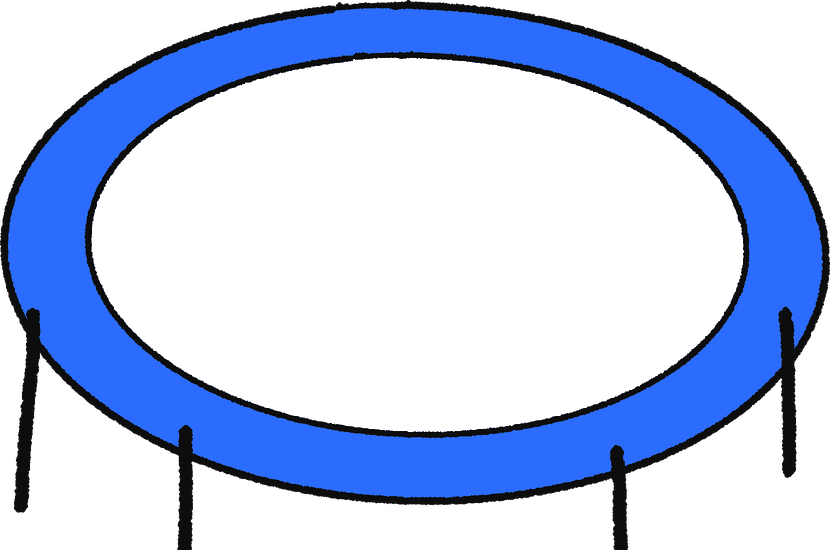
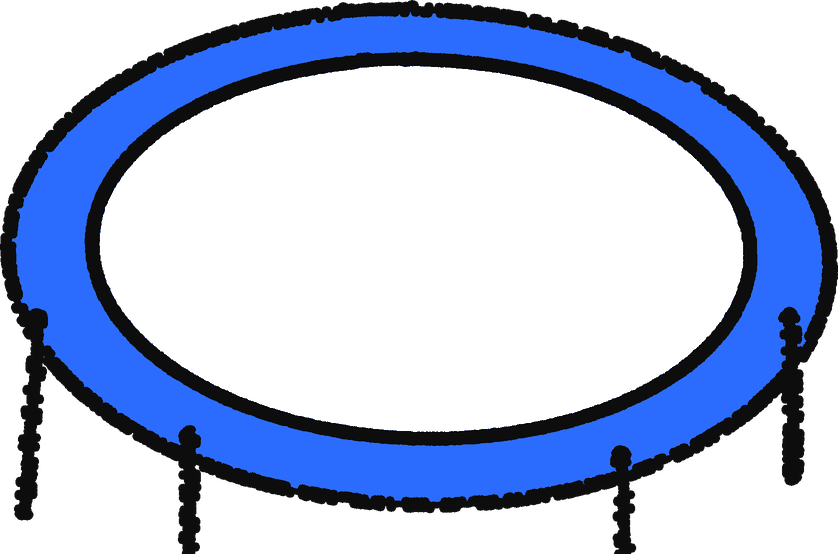
기본 화면 찌글거림 완화, 그린 포즈 춤 확대, 광장 버튼 이동
- 기본 화면 몸 찌글거림 축소, 얼굴과 이목구비도 같은 정도로 흔들림
- 광장 소품에 찌글거림 프레임 적용, 트램펄린 선 강화
- 스페셜 후반 8박과 클럽 테마에 그린 포즈 춤 5종 추가
- 광장 입장 버튼을 주둥이 털기 아래로 옮기고 같은 크기로 변경
- 입력칸 위 안내 문구 삭제

Claude-Session: https://claude.ai/code/session_01Bn9iVCnsYpuAwZPUj6p4ae

Changed region(s): [[0.0, 0.0, 1.0, 1.0]]

diff --git a/site/plaza.js b/site/plaza.js
@@ -46,12 +46,14 @@ const Plaza=(()=>{let ws=null,on=false,me=0,room=0,WORLD=1400,MIC={x:300,y:1150,
   if(e<1.35)return{rr:-d*(1.57+.07*f),ry:.22,...legs,...arms,al:1.5+.9*f,ar:1.5-.9*f,hs:1};
   if(e<1.7){const k=(e-1.35)/.35,tw=Math.sin(now/30)*.25*(1-k);return{rr:-d*1.57,ry:.24,lr:(d>0?hi:.1)*(1-k)+tw,ll:(d>0?.1:hi)*(1-k)-tw,al:.15,ar:.15}}
   const k=(e-1.7)/.2;return{rr:-d*1.57*(1-k),ry:.24*(1-k),al:.15+.3*k,ar:.15+.3*k}}
- function item(g,n,x,y,sc,rot){const m=SPR[n];if(!m||!m.width)return;const w=m.width*sc,h=m.height*sc;g.save();g.translate(x,y);if(rot)g.rotate(rot);g.drawImage(m,-w/2,-h/2,w,h);g.restore()}
+ function boil(n){const m=SPR[n];if(!m.width)return;const c0=document.createElement('canvas');c0.width=m.width;c0.height=m.height;const x0=c0.getContext('2d');x0.drawImage(m,0,0);const src=x0.getImageData(0,0,m.width,m.height),W=m.width,H0=m.height;SPR[n+'#']=[0,1,2].map(f=>{const c=document.createElement('canvas');c.width=W;c.height=H0;const x=c.getContext('2d'),o=x.createImageData(W,H0),A0=3;for(let v=0;v<H0;v++)for(let u=0;u<W;u++){const sx=Math.round(u+A0*Math.sin(v/19+f*2.1)+.9*Math.sin(v/7+f*4)),sy=Math.round(v+A0*Math.sin(u/23+f*3.3)+.9*Math.sin(u/8+f*5));if(sx<0||sy<0||sx>=W||sy>=H0)continue;const i=(sy*W+sx)*4,j=(v*W+u)*4;o.data[j]=src.data[i];o.data[j+1]=src.data[i+1];o.data[j+2]=src.data[i+2];o.data[j+3]=src.data[i+3]}x.putImageData(o,0,0);return c})}
+ function frameOf(n){const f=SPR[n+'#'];return f?f[Math.floor(performance.now()/110)%3]:SPR[n]}
+ function item(g,n,x,y,sc,rot){const m=frameOf(n);if(!m||!m.width)return;const w=m.width*sc,h=m.height*sc;g.save();g.translate(x,y);if(rot)g.rotate(rot);g.drawImage(m,-w/2,-h/2,w,h);g.restore()}
  function jumpPose(p){const u=Math.max(-1,Math.min(1,p.vz/700)),t=1-Math.abs(u),fall=u<0?-u:0;return{ll:.1+.5*t+.14*fall,lr:.1+.5*t+.14*fall,kl:-.15-1.25*t-.2*fall,kr:-.15-1.25*t-.2*fall,al:2.75-1.05*t-.5*fall,ar:2.75-1.05*t-.5*fall,bl:.2+.5*t,br:.2+.5*t}}
  // 어깨에서 위팔을 내리고 팔꿈치를 접어 손이 어깨 높이에 오게 한다. 휘두를 때는 팔을 펴며 앞으로 내린다.
  function armPose(pose,d,k,now){const sh=k?.45+1.5*k:.62+.03*Math.sin(now/260),bend=k?.15+1.25*k:2.15;if(d>0){pose.ar=sh;pose.br=bend}else{pose.al=sh;pose.bl=bend}}
  function handOf(P,d){const key=d>0?'aR':'aL',a=d>0?P.ar:P.al,b=d>0?P.br:P.bl,st=d>0?P.sr:P.sl,sg=d>0?-1:1,l=LIMBS[key],K=20,seg=l.L*st/K;let x=l.root[0],y=l.root[1];for(let i=0;i<K;i++){const th=l.th+sg*(a+b*i/K);x+=Math.cos(th)*seg;y+=Math.sin(th)*seg}return[x-CX,y-CY]}
- function carryBat(g,P,x,y,sc,k,d,kind){const[hx,hy]=handOf(P,d),m=SPR[kind==='ham'?'hammer':'bat'];if(!m||!m.width)return;const z=sc*2.1,w=m.width*z,h=m.height*z,r=P.rr||0,c=Math.cos(r),s0=Math.sin(r),u=hx*sc*P.sx,v=hy*sc*P.sy,ox=x+P.rx*H*sc+(u*c-v*s0),oy=y+P.ry*H*sc+(u*s0+v*c);g.save();g.translate(ox,oy);g.rotate(d*(k?1.75-2.3*k:.28));g.drawImage(m,-w/2,-h*.92,w,h);g.restore()}
+ function carryBat(g,P,x,y,sc,k,d,kind){const[hx,hy]=handOf(P,d),m=frameOf(kind==='ham'?'hammer':'bat');if(!m||!m.width)return;const z=sc*2.1,w=m.width*z,h=m.height*z,r=P.rr||0,c=Math.cos(r),s0=Math.sin(r),u=hx*sc*P.sx,v=hy*sc*P.sy,ox=x+P.rx*H*sc+(u*c-v*s0),oy=y+P.ry*H*sc+(u*s0+v*c);g.save();g.translate(ox,oy);g.rotate(d*(k?1.75-2.3*k:.28));g.drawImage(m,-w/2,-h*.92,w,h);g.restore()}
  function playShout(m,own){const show=own?m.text:(beep||m.mic?m.masked:m.text),raw=show.replace(/★+/g,'삐');bubbles.set(m.no,{t:show,live:true,life:3,mic:m.mic});
   const b=bubbles.get(m.no);if(!m.mic&&!allHear&&distTo(m.no)>1150){b.live=false;return}
   // 말풍선을 먼저 그린 뒤 합성한다. 합성이 화면을 잠깐 멈추므로 순서가 체감을 좌우한다.
@@ -84,7 +86,7 @@ const Plaza=(()=>{let ws=null,on=false,me=0,room=0,WORLD=1400,MIC={x:300,y:1150,
   mic(g,t);g.restore()}
  function micZone(g){const{x,y,r}=MIC;Rough.poly(g,Rough.ell(x,y,r,r*.56,22),{fill:'rgba(255,43,179,.28)',stroke:null,amp:2,seed:1})}
  function mic(g,t){const{x,y,r}=MIC;
-  if(SPR.mic){const m=SPR.mic,h=m.height*.2,w=m.width*.2;g.drawImage(m,x-w*.42,y+22-h,w,h)}
+  {const m=frameOf('mic');if(m&&m.width){const h=m.height*.2,w=m.width*.2;g.drawImage(m,x-w*.42,y+22-h,w,h)}}
   g.font='700 24px "Gaegu","Noto Sans CJK KR",sans-serif';g.textAlign='center';g.fillStyle='#0d0d0d';g.fillText('마이크',x,y+r*.56+30)}
  function wrap(g,s,max){const a=[...s],o=[];let c='';for(const ch of a){if(g.measureText(c+ch).width>max){o.push(c);c=ch;if(o.length===3)break}else c+=ch}if(o.length<3&&c)o.push(c);return o}
  function bubble(g,x,y,text,mic){g.font='700 22px "Gaegu","Noto Sans CJK KR",sans-serif';const L=wrap(g,text,220),w=Math.max(...L.map(s=>g.measureText(s).width))+32,h=L.length*27+20,bx=x-w/2,by=y-h-20;Rough.poly(g,[[bx,by],[bx+w,by-3],[bx+w+2,by+h],[x+14,by+h],[x,by+h+18],[x-10,by+h],[bx-2,by+h+2]],{fill:mic?'#f4ff1f':'#fff',lw:3,amp:1.2,seed:w});g.fillStyle='#0d0d0d';g.textAlign='center';L.forEach((s,i)=>g.fillText(s,x,by+27+i*27))}
@@ -132,7 +134,7 @@ const Plaza=(()=>{let ws=null,on=false,me=0,room=0,WORLD=1400,MIC={x:300,y:1150,
   return eyesAt}
  return{zoom:()=>zoom,isOn:()=>on,inClub:()=>inClub,busy:()=>busy,me:()=>peers.get(me),bananas:()=>bananas,bats:()=>bats,update,draw,done(){const m=speaking;busy=false;speaking=null;if(m){const b=bubbles.get(m.no);if(b){b.live=false;b.life=1.5}if(m.sing){const p=peers.get(m.no);if(p)pops.push({x:p.x,y:p.y-190,t:3,s:`음치 ${m.score}점`});say(`주둥이 ${m.no}의 ${m.nm}: 음치 ${m.score}점`)}}},
   preview(name,v){const free=POOL.find(e=>!sides.some(s=>s.el===e));if(!free)return;App.synth({raw:name,v,plain:true}).then(s=>{if(!s.text)return;free.onended=null;free.src=App.wavOf(s,userVol);free.volume=userVol;free.play().catch(()=>{})})},
-  init(cv){for(const n of['mic','hammer','bat','banana','tramp']){const i=new Image();i.src=`assets/${n}.png`;SPR[n]=i}pointer(cv);fixMobile();$p('enter').onclick=enter;$p('leave').onclick=()=>leave();$p('beep').onclick=()=>{beep=!beep;paint()};$p('allHear').onclick=()=>{allHear=!allHear;paint()};$p('volume').oninput=e=>{userVol=+e.target.value};$p('setBtn').onclick=()=>{$p('setMenu').hidden=!$p('setMenu').hidden};
+  init(cv){for(const n of['mic','hammer','bat','banana','tramp']){const i=new Image();i.onload=()=>boil(n);i.src=`assets/${n}.png`;SPR[n]=i}pointer(cv);fixMobile();$p('enter').onclick=enter;$p('leave').onclick=()=>leave();$p('beep').onclick=()=>{beep=!beep;paint()};$p('allHear').onclick=()=>{allHear=!allHear;paint()};$p('volume').oninput=e=>{userVol=+e.target.value};$p('setBtn').onclick=()=>{$p('setMenu').hidden=!$p('setMenu').hidden};
    $p('zIn').onclick=()=>setZoom(zoom*1.2);$p('zOut').onclick=()=>setZoom(zoom/1.2);$p('aSit').onclick=()=>setPose('sit');$p('aLie').onclick=()=>setPose('lie');$p('aRide').onclick=()=>linkTo('ride');$p('aTrain').onclick=()=>linkTo('train');$p('aBanana').onclick=()=>{const q=peers.get(me);if(!q)return;const x=q.x>150?q.x-105:q.x+105;lastBanana=performance.now();send({type:'banana',x,y:q.y+8})};$p('aPick').onclick=()=>{if(pickId)send({type:'pick',id:pickId})};$p('aSing').onclick=()=>{$p('singOpen').hidden=false};$p('singCancel').onclick=()=>{$p('singOpen').hidden=true};$p('singSongs').replaceChildren(...SONGS.map((S,i)=>{const b=document.createElement('button');b.type='button';b.className='chip';b.textContent=S.nm;b.setAttribute('aria-pressed',i===0);b.onclick=()=>{singSong_=S.id;for(const x of $p('singSongs').children)x.setAttribute('aria-pressed',x===b);$p('singIn').placeholder=S.lyr.slice(0,26)+'…';$p('singBy').textContent=S.by};return b}));$p('singIn').placeholder=SONGS[0].lyr.slice(0,26)+'…';$p('singBy').textContent=SONGS[0].by;$p('singGo').onclick=()=>{const S=SONGS.find(x=>x.id===singSong_),t=$p('singIn').value.trim(),n=[...t].filter(c=>/[가-힣]/.test(c)).length;if(!n)return say('가사를 입력해 주세요.',true);send({type:'sing',text:t,song:S.id,voice:{...voice},dur:songSecs(S.id,n)});$p('singOpen').hidden=true};
    document.querySelectorAll('#clubThemes button').forEach(b=>{b.onclick=()=>{clubTheme=b.dataset.t;document.querySelectorAll('#clubThemes button').forEach(x=>x.setAttribute('aria-pressed',x===b))}});$p('aClub').onclick=()=>{const w=clubWaitUntil-Date.now();if(w>0)return say(`클럽은 ${Math.ceil(w/60000)}분 뒤에 열 수 있어요.`,true);$p('clubOpen').hidden=false};$p('clubCancel').onclick=()=>{$p('clubOpen').hidden=true};$p('clubGo').onclick=()=>{const v=$p('clubIn').value.trim();if(!v)return;send({type:'club',text:v,voice:{...voice},theme:clubTheme});$p('clubOpen').hidden=true};$p('clubYes').onclick=joinClub;$p('clubNo').onclick=()=>{$p('clubInvite').hidden=true};$p('clubExit').onclick=exitClub;
    document.querySelectorAll('[data-react]').forEach(b=>b.onclick=()=>send({type:'react',k:b.dataset.react}));

diff --git a/site/dance.js b/site/dance.js
@@ -163,13 +163,13 @@ function draw(g,ox,oy,S,tick,raster){const sd=tick*2.1;const lw=2.6/S*Math.min(1
  g.save();g.translate(ox+R.dx*H_U*S,oy+R.dy*H_U*S);g.rotate(R.rot);g.scale(S,S);g.translate(-CXs,-CYs);g.lineJoin=g.lineCap='round';
  const useR=raster&&settled&&T.cel&&IMG[T.cel];
  if(useR){g.save();if(T.mir){g.translate(CXs*2,0);g.scale(-1,1)}const rot=T.rot;if(rot){g.translate(CXs,CYs);g.rotate(-rot);g.translate(-CXs,-CYs)}g.drawImage(IMG[T.cel],0,0,2362,2362);g.restore()}
- else{g.beginPath();for(let i=0;i<M;i++){const x=X[i*2]+wob(i,sd)*2,y=X[i*2+1]+wob(i,sd+9)*2;i?g.lineTo(x,y):g.moveTo(x,y)}g.closePath();g.fillStyle='#fff';g.fill();g.strokeStyle='#0d0d0d';g.lineWidth=lw;g.stroke()}
+ else{g.beginPath();for(let i=0;i<M;i++){const x=X[i*2]+wob(i,sd)*.55,y=X[i*2+1]+wob(i,sd+9)*.55;i?g.lineTo(x,y):g.moveTo(x,y)}g.closePath();g.fillStyle='#fff';g.fill();g.strokeStyle='#0d0d0d';g.lineWidth=lw;g.stroke()}
  const nb=[X[0],X[1]],ca=Math.cos(H.ang),sa=Math.sin(H.ang),hw=HH*H.s,hp=(u,v)=>[H.x+u*hw*ca-v*hw*sa,H.y+u*hw*sa+v*hw*ca],hA=hp(-.15,.38),hB=hp(.15,.38);
  if(Math.hypot((hA[0]+hB[0])/2-nb[0],(hA[1]+hB[1])/2-nb[1])>NECK_REST+55){const L=[X[(M-16)*2],X[(M-16)*2+1]],Rr=[X[32],X[33]];g.beginPath();g.moveTo(L[0],L[1]);g.lineTo(hA[0],hA[1]);g.lineTo(hB[0],hB[1]);g.lineTo(Rr[0],Rr[1]);g.closePath();g.fillStyle='#fff';g.fill();g.beginPath();g.moveTo(L[0],L[1]);g.lineTo(hA[0],hA[1]);g.moveTo(Rr[0],Rr[1]);g.lineTo(hB[0],hB[1]);g.strokeStyle='#0d0d0d';g.lineWidth=lw;g.stroke()}
  const k=hkU<.5?hkA:hkB,fl=hkU<.5?hfA:hfB,side=k===1;
  g.save();g.translate(H.x,H.y);g.rotate(H.ang);g.scale(HH*H.s,HH*H.s);
- if(!useR||mouth>.05||mouthExtra>.05){const poly=headPoly();g.beginPath();poly.forEach((q,i)=>{const x=q[0]+wob(i,sd+3)*.0016,y=q[1]+wob(i,sd+5)*.0016;i?g.lineTo(x,y):g.moveTo(x,y)});g.closePath();g.fillStyle='#fff';g.fill();g.strokeStyle='#0d0d0d';g.lineWidth=lw/(HH*H.s);g.stroke();
-  if(k!==2){g.save();g.clip();const src=side?HEADS.side:HEADS.front,cen=side?headSide:headFront,sh=hkA===hkB?0:(hkU<.5?hkU*2:(1-hkU)*2)*.1*(fl?1:-1);g.scale(fl&&side?-1:1,1);g.fillStyle='#0d0d0d';const m=clamp(mouth+mouthExtra,0,6);src.feats.forEach((f,fi)=>{const low=!side&&fi===lowerFeat,dy=low?m*.05:0;g.beginPath();f.forEach((q,i)=>{const x=q[0]-cen.cx+sh,y=q[1]-cen.cy+dy;i?g.lineTo(x,y):g.moveTo(x,y)});g.closePath();g.fill()});
+ if(!useR||mouth>.05||mouthExtra>.05){const poly=headPoly();g.beginPath();poly.forEach((q,i)=>{const x=q[0]+wob(i,sd+3)*.0011,y=q[1]+wob(i,sd+5)*.0011;i?g.lineTo(x,y):g.moveTo(x,y)});g.closePath();g.fillStyle='#fff';g.fill();g.strokeStyle='#0d0d0d';g.lineWidth=lw/(HH*H.s);g.stroke();
+  if(k!==2){g.save();g.clip();const src=side?HEADS.side:HEADS.front,cen=side?headSide:headFront,sh=hkA===hkB?0:(hkU<.5?hkU*2:(1-hkU)*2)*.1*(fl?1:-1);g.scale(fl&&side?-1:1,1);g.fillStyle='#0d0d0d';const m=clamp(mouth+mouthExtra,0,6);src.feats.forEach((f,fi)=>{const low=!side&&fi===lowerFeat,dy=low?m*.05:0;g.beginPath();f.forEach((q,i)=>{const x=q[0]-cen.cx+sh+wob(i*6,sd+fi*2+11)*.0011,y=q[1]-cen.cy+dy+wob(i*6,sd+fi*2+13)*.0011;i?g.lineTo(x,y):g.moveTo(x,y)});g.closePath();g.fill()});
    if(!side&&m>.1){const up=HEADS.front.feats[lowerFeat],uy=up.reduce((s2,p)=>s2+p[1],0)/up.length-headFront.cy;g.beginPath();g.ellipse(sh,uy-.02+m*.025,.055+m*.012,m*.03,0,0,7);g.fill()}g.restore()}}
  g.restore();g.restore()}
 /* 평소 춤: 뼈대 자세를 윤곽 목표로 삼아 탄력 있게 따라간다. 전신 동작을 덮어 쓴다 */
@@ -202,6 +202,13 @@ const FINALE={run:'sixstep',melt:'headspin',love:'lotto',chicken:'windmill',lott
  cTro2:()=>{const o=[];for(let i=0;i<4;i++)o.push([i,shd(i)],[i+.5,shd(i,{ry:.05,kl:.9,kr:.9})]);return[...o,[4,rp({al:2.5,ar:.9,bl:.2,br:2.5,kl:1.9,kr:1.9,ry:.13,hr:.3})],[5,rp({ar:2.5,al:.9,br:.2,bl:2.5,kl:.3,kr:.3,hr:-.3})],[6,rp({al:2.5,ar:.9,bl:.2,br:2.5,kl:1.9,kr:1.9,ry:.13,tw:.4})],[7,PZ.G],[8,shd(0)]]},
  cEdm1:()=>{const o=[];for(let i=0;i<8;i++)o.push([i,i%4<2?pump(i):mirror(pump(i)),{dy:-.16}],[i+.5,rp({kl:.9,kr:.9,ry:.05,al:.9,ar:.9,bl:2.4,br:2.4}),{dy:0}]);return o},
  cEdm2:()=>{const o=[];for(let i=0;i<12;i++)o.push([i*.5,run(i),{dx:Math.sin(i*.39)*.2}]);return[...o,[6,PZ.I,{dx:0}],[7,mirror(PZ.I)]]}});
+ const m=mirror,Z=PZ;Object.assign(BIG,{
+ sA:()=>[[0,Z.G],[1,Z.M],[2,Z.K],[3,Z.L],[4,Z.Q],[5,Z.G,{dy:-.14}],[6,Z.S,{dy:0}],[7,m(Z.S)],[7.7,A]],
+ sB:()=>[[0,Z.H],[.5,m(Z.H)],[1,Z.H],[1.5,m(Z.H)],[2,Z.I],[3,m(Z.I)],[4,Z.J],[5,m(Z.J)],[6,Z.R],[7,m(Z.R)],[7.7,A]],
+ sC:()=>[[0,Z.O],[2,m(Z.O)],[4,Z.K],[5,Z.M],[6,Z.G,{dy:-.2}],[7,Z.M,{dy:0}],[7.7,A]],
+ sD:()=>[[0,Z.S],[1,Z.H],[2,Z.I],[3,Z.J],[4,m(Z.S)],[5,m(Z.H)],[6,m(Z.I)],[7,m(Z.J)],[7.7,A]],
+ sE:()=>[[0,Z.Q],[1,Z.L],[2,Z.M,{dy:-.15}],[3,Z.L,{dy:0}],[4,Z.K],[5,Z.Q],[6,Z.G,{dy:-.18}],[7,Z.M,{dy:0}],[7.7,A]]});
+ {const R5=['sA','sB','sC','sD','sE'];Object.keys(BIG).filter(k=>!/^(c[A-Z]|s[A-E]$)/.test(k)).forEach((k,i)=>{FINALE[k]=R5[i%5]});Object.assign(FINALE,{sA:'sB',sB:'sD',sC:'sE',sD:'sA',sE:'sC'})}
  Object.assign(FINALE,{cHip1:'cHip2',cHip2:'cHip3',cHip3:'cHip1',cDis1:'cDis2',cDis2:'cDis1',cTro1:'cTro2',cTro2:'cTro1',cEdm1:'cEdm2',cEdm2:'cEdm1'})}
 return{setLow(v){lowP=v},setImages(i){Object.assign(IMG,i)},reseed,
  update(dt,now){clock+=dt;if(bigSeq){bigT+=dt/BEAT*beatRate;while(bigI<bigSeq.length&&bigSeq[bigI][0]<=bigT){const[,p,o]=bigSeq[bigI];setTarget(p,o||{dx:T.dx,dy:T.dy});bigI++}if(bigT>=16.1){bigSeq=null;cloneOn=0;orbit=0;endBig()}}else liveTarget(dt,now);stepBody(dt);let e=0;for(let i=0;i<M*2;i+=11)e+=Math.abs(X[i]-T.body[i]);settled=e/(M*2/11)<2.4&&Math.abs(H.x-T.head.x)<3&&hkU>=1&&Math.abs(wrap(R.rot-T.rot))<.02},

diff --git a/site/style.css b/site/style.css
@@ -15,7 +15,6 @@ h1 mark{background:var(--neon-y);color:inherit;padding:0 .08em}
 #sub span.t{background:var(--paper);-webkit-box-decoration-break:clone;box-decoration-break:clone;padding:0 6px}
 #sub b{background:var(--neon-p)}
 form{display:flex;flex-direction:column;gap:12px}
-label.say{font-weight:700;font-size:20px}
 #say{width:100%;min-height:86px;resize:vertical;font:inherit;font-size:22px;font-weight:700;padding:10px 14px;color:var(--ink);background:var(--paper);border:3px solid var(--ink);border-radius:255px 18px 225px 18px/18px 225px 18px 255px;outline:none}
 #say:focus-visible{box-shadow:0 0 0 4px var(--neon-y)}
 .row{display:flex;flex-wrap:wrap;gap:12px;align-items:center}
@@ -41,7 +40,8 @@ summary{font-family:var(--stamp);font-size:24px;cursor:pointer}
 .found{margin:0;color:var(--soft);font-weight:700}
 footer{color:var(--soft);font-size:15px;margin-top:8px}footer a{color:inherit}
 @media(prefers-reduced-motion:reduce){h1,#go{transform:none}}
-#enter{min-height:56px;font-family:var(--stamp);font-size:24px;color:#fff;background:#2b6cff;border:3px solid var(--ink);border-radius:18px 225px 18px 255px/255px 18px 225px 18px}
+#enter{min-height:64px;font-family:var(--stamp);font-size:28px;color:#fff;background:#2b6cff;border:3px solid var(--ink);border-radius:18px 225px 18px 255px/255px 18px 225px 18px;box-shadow:5px 6px 0 var(--ink);transform:rotate(.6deg)}
+#enter:active{transform:translate(4px,5px);box-shadow:1px 1px 0 var(--ink)}
 #enter[data-on="1"]{background:var(--ink);color:var(--neon-y)}
 .rule{margin:8px 0 0;font-weight:700;max-width:65ch}
 #plazaUi{display:none}

diff --git a/site/app.js b/site/app.js
@@ -37,7 +37,7 @@ $('voiceSave').onclick=()=>{const list=store.get('jd.custom',[]),id='c'+Date.now
 /* 공유 */
 const enc=o=>btoa(unescape(encodeURIComponent(JSON.stringify(o)))).replace(/\+/g,'-').replace(/\//g,'_').replace(/=+$/,'');
 const dec=s=>JSON.parse(decodeURIComponent(escape(atob(s.replace(/-/g,'+').replace(/_/g,'/')))));
-let volume=1,extPlaying=false,clubLoop=false,clubTheme='edm';const CLUB_DANCE={edm:['cEdm1','cEdm2','combo','sixstep','jackpot'],hiphop:['cHip1','cHip2','cHip3'],disco:['cDis1','cDis2'],trot:['cTro1','cTro2']};
+let volume=1,extPlaying=false,clubLoop=false,clubTheme='edm';const CLUB_DANCE={edm:['cEdm1','cEdm2','sA','sD','combo'],hiphop:['cHip1','cHip2','cHip3','sB','sD'],disco:['cDis1','cDis2','sB','sA'],trot:['cTro1','cTro2','sE','sC']};
 const SILENT=URL.createObjectURL(wav(new Float32Array(2205),SR));function unlockAudio(){Sfx.unlock();player.src=SILENT;player.play().catch(()=>{})}
 const NOVOL=(()=>{const a=new Audio();a.volume=.5;return a.volume!==.5})(),bake=(pcm,k)=>{if(NOVOL&&k!=null&&k<1)for(let i=0;i<pcm.length;i++)pcm[i]*=k;return pcm};
 let sw=null,swOk=false,swId=0;const swWait=new Map();

diff --git a/site/index.html b/site/index.html
@@ -18,16 +18,15 @@
     <div id="sub"></div>
   </div>
   <form id="f">
-    <label class="say" for="say">아무 말이나 쳐봐. 느낌표!!!를 많이 붙일수록 난리 난다.</label>
-    <textarea id="say" maxlength="300">이 곳에 하고 싶은 말을 입력해 보세요~~</textarea>
+    <textarea id="say" maxlength="300" aria-label="하고 싶은 말">이 곳에 하고 싶은 말을 입력해 보세요~~</textarea>
     <div class="row">
       <button id="go" type="submit" disabled>목 푸는 중</button>
     </div>
+    <button id="enter" type="button">광장 입장</button>
     <div class="row sub-row">
       <button id="record" type="button">영상 저장</button>
       <button id="share" type="button">사이트 공유</button>
     </div>
-    <button id="enter" type="button">광장 입장</button>
     <div id="msg" role="status"></div>
   </form>
   <details id="rules"><summary>광장 규칙</summary>
